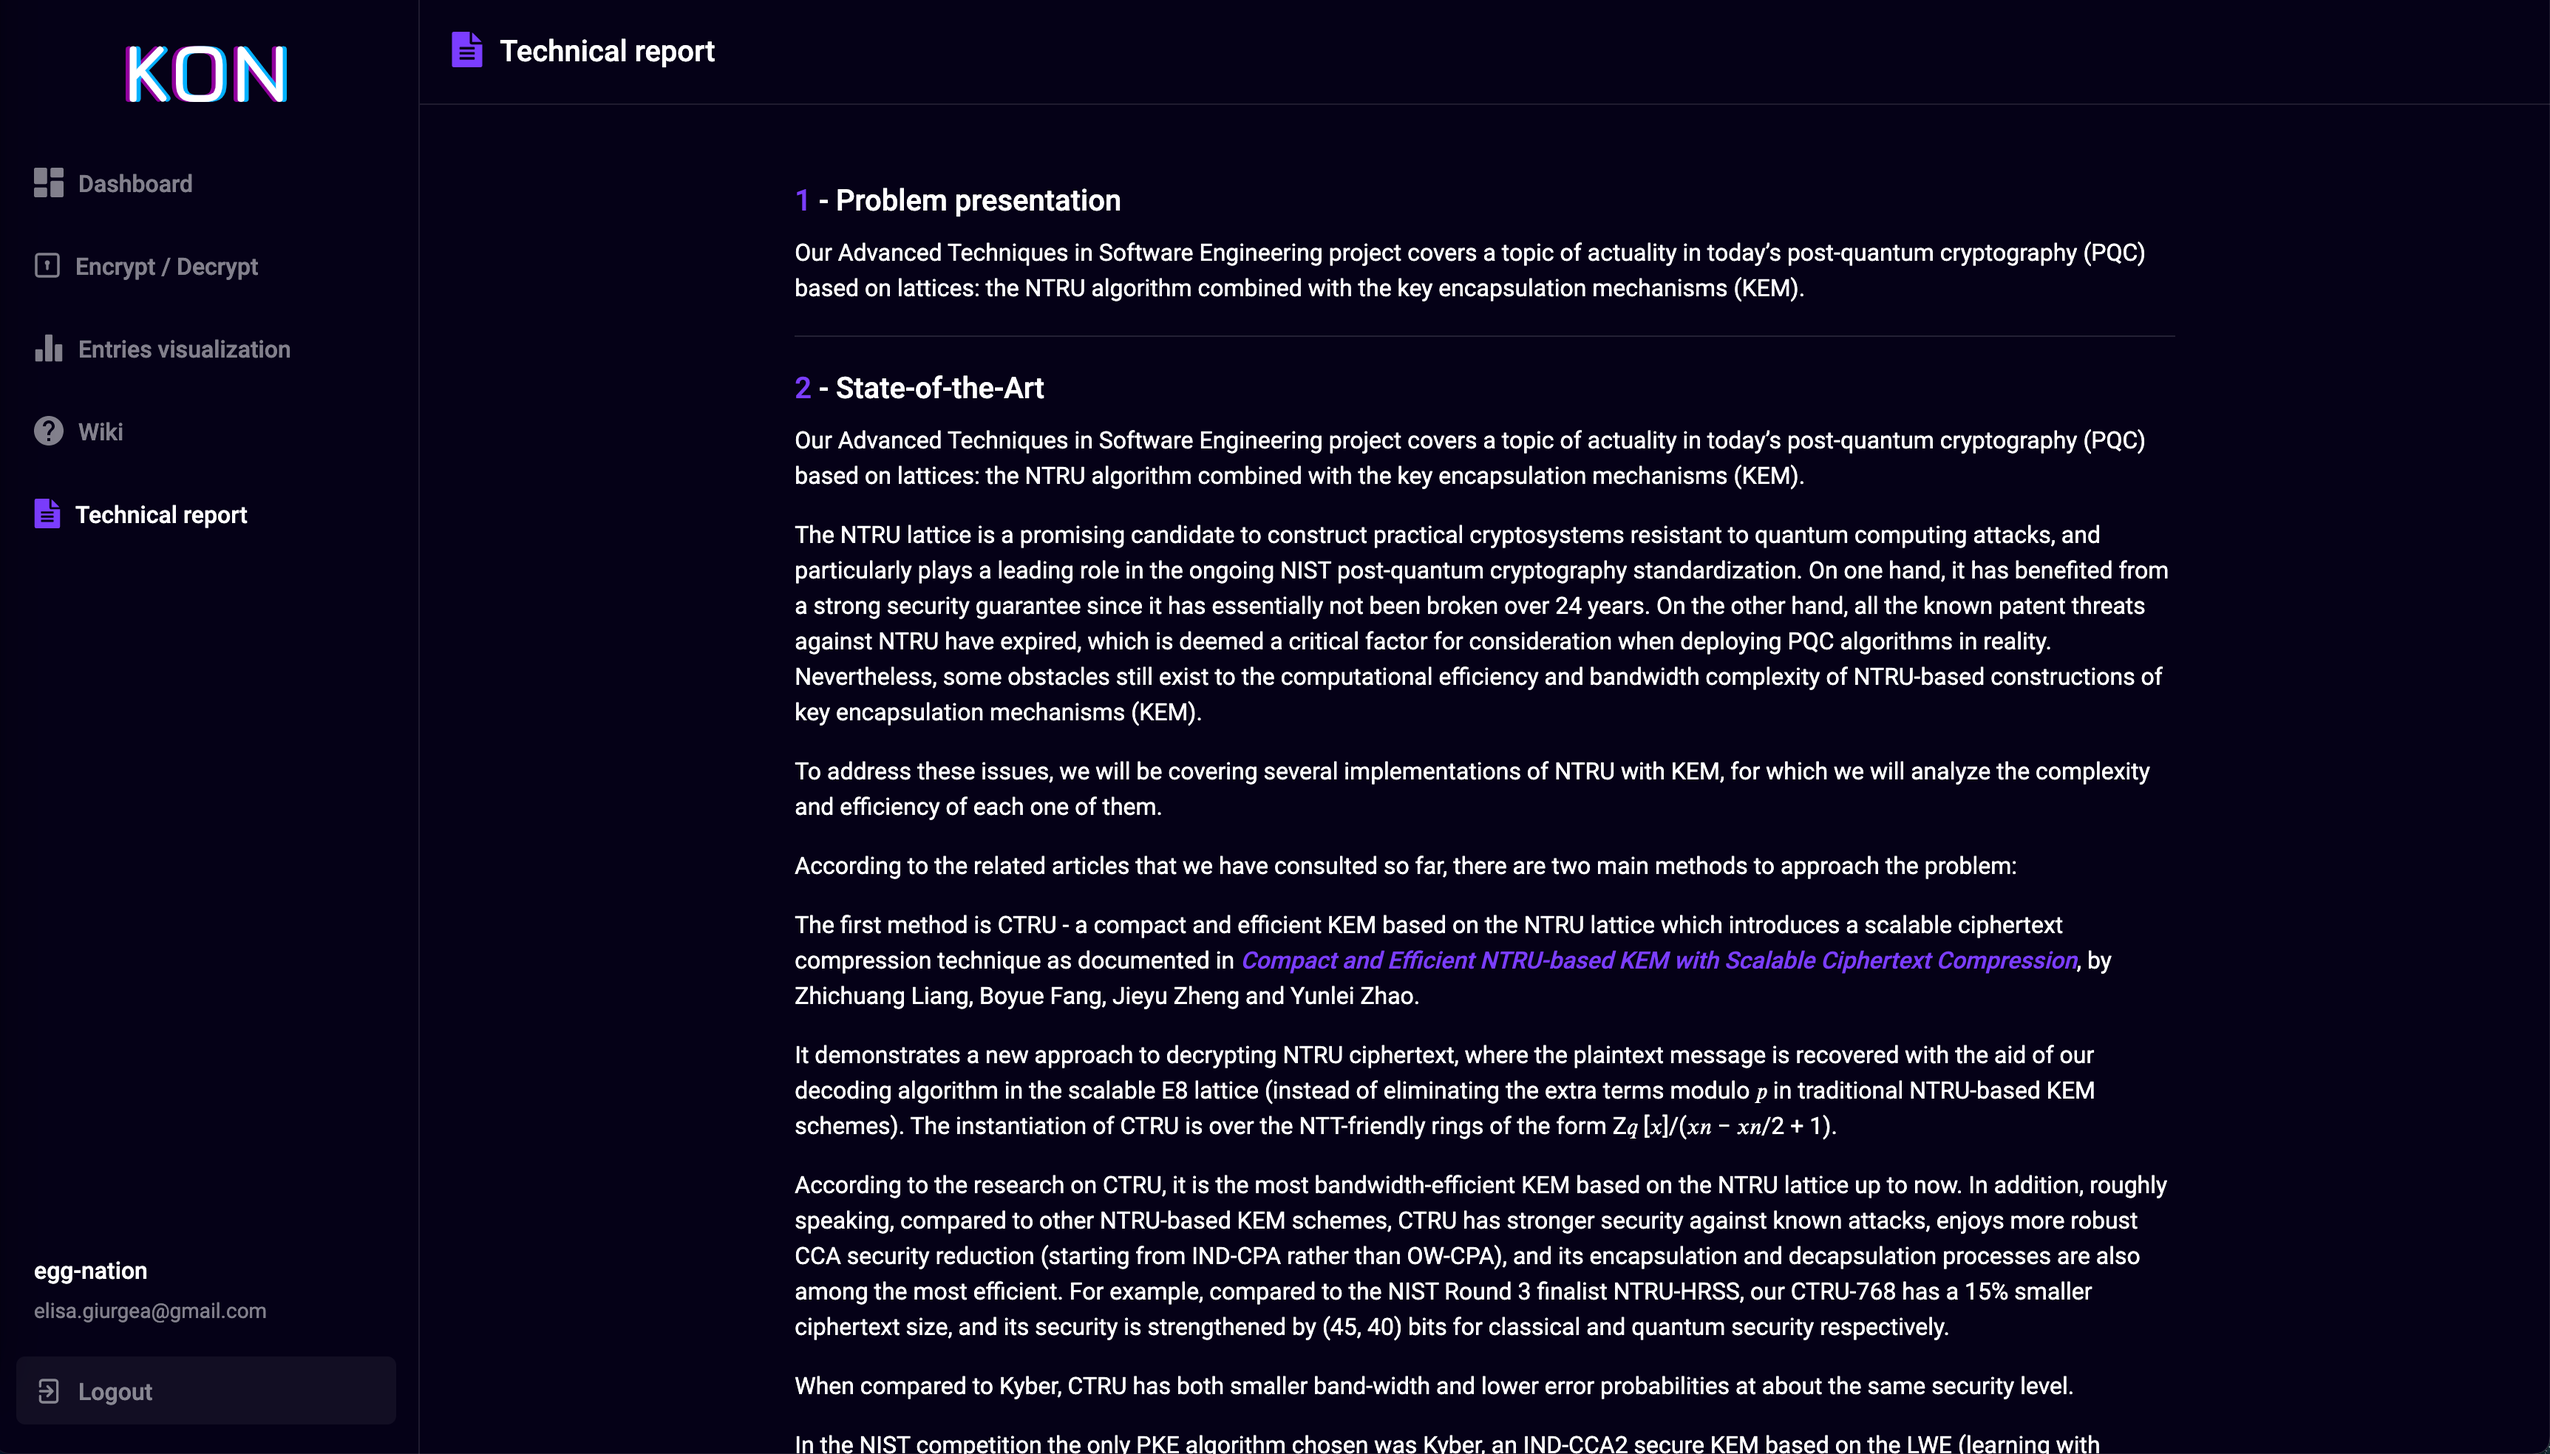
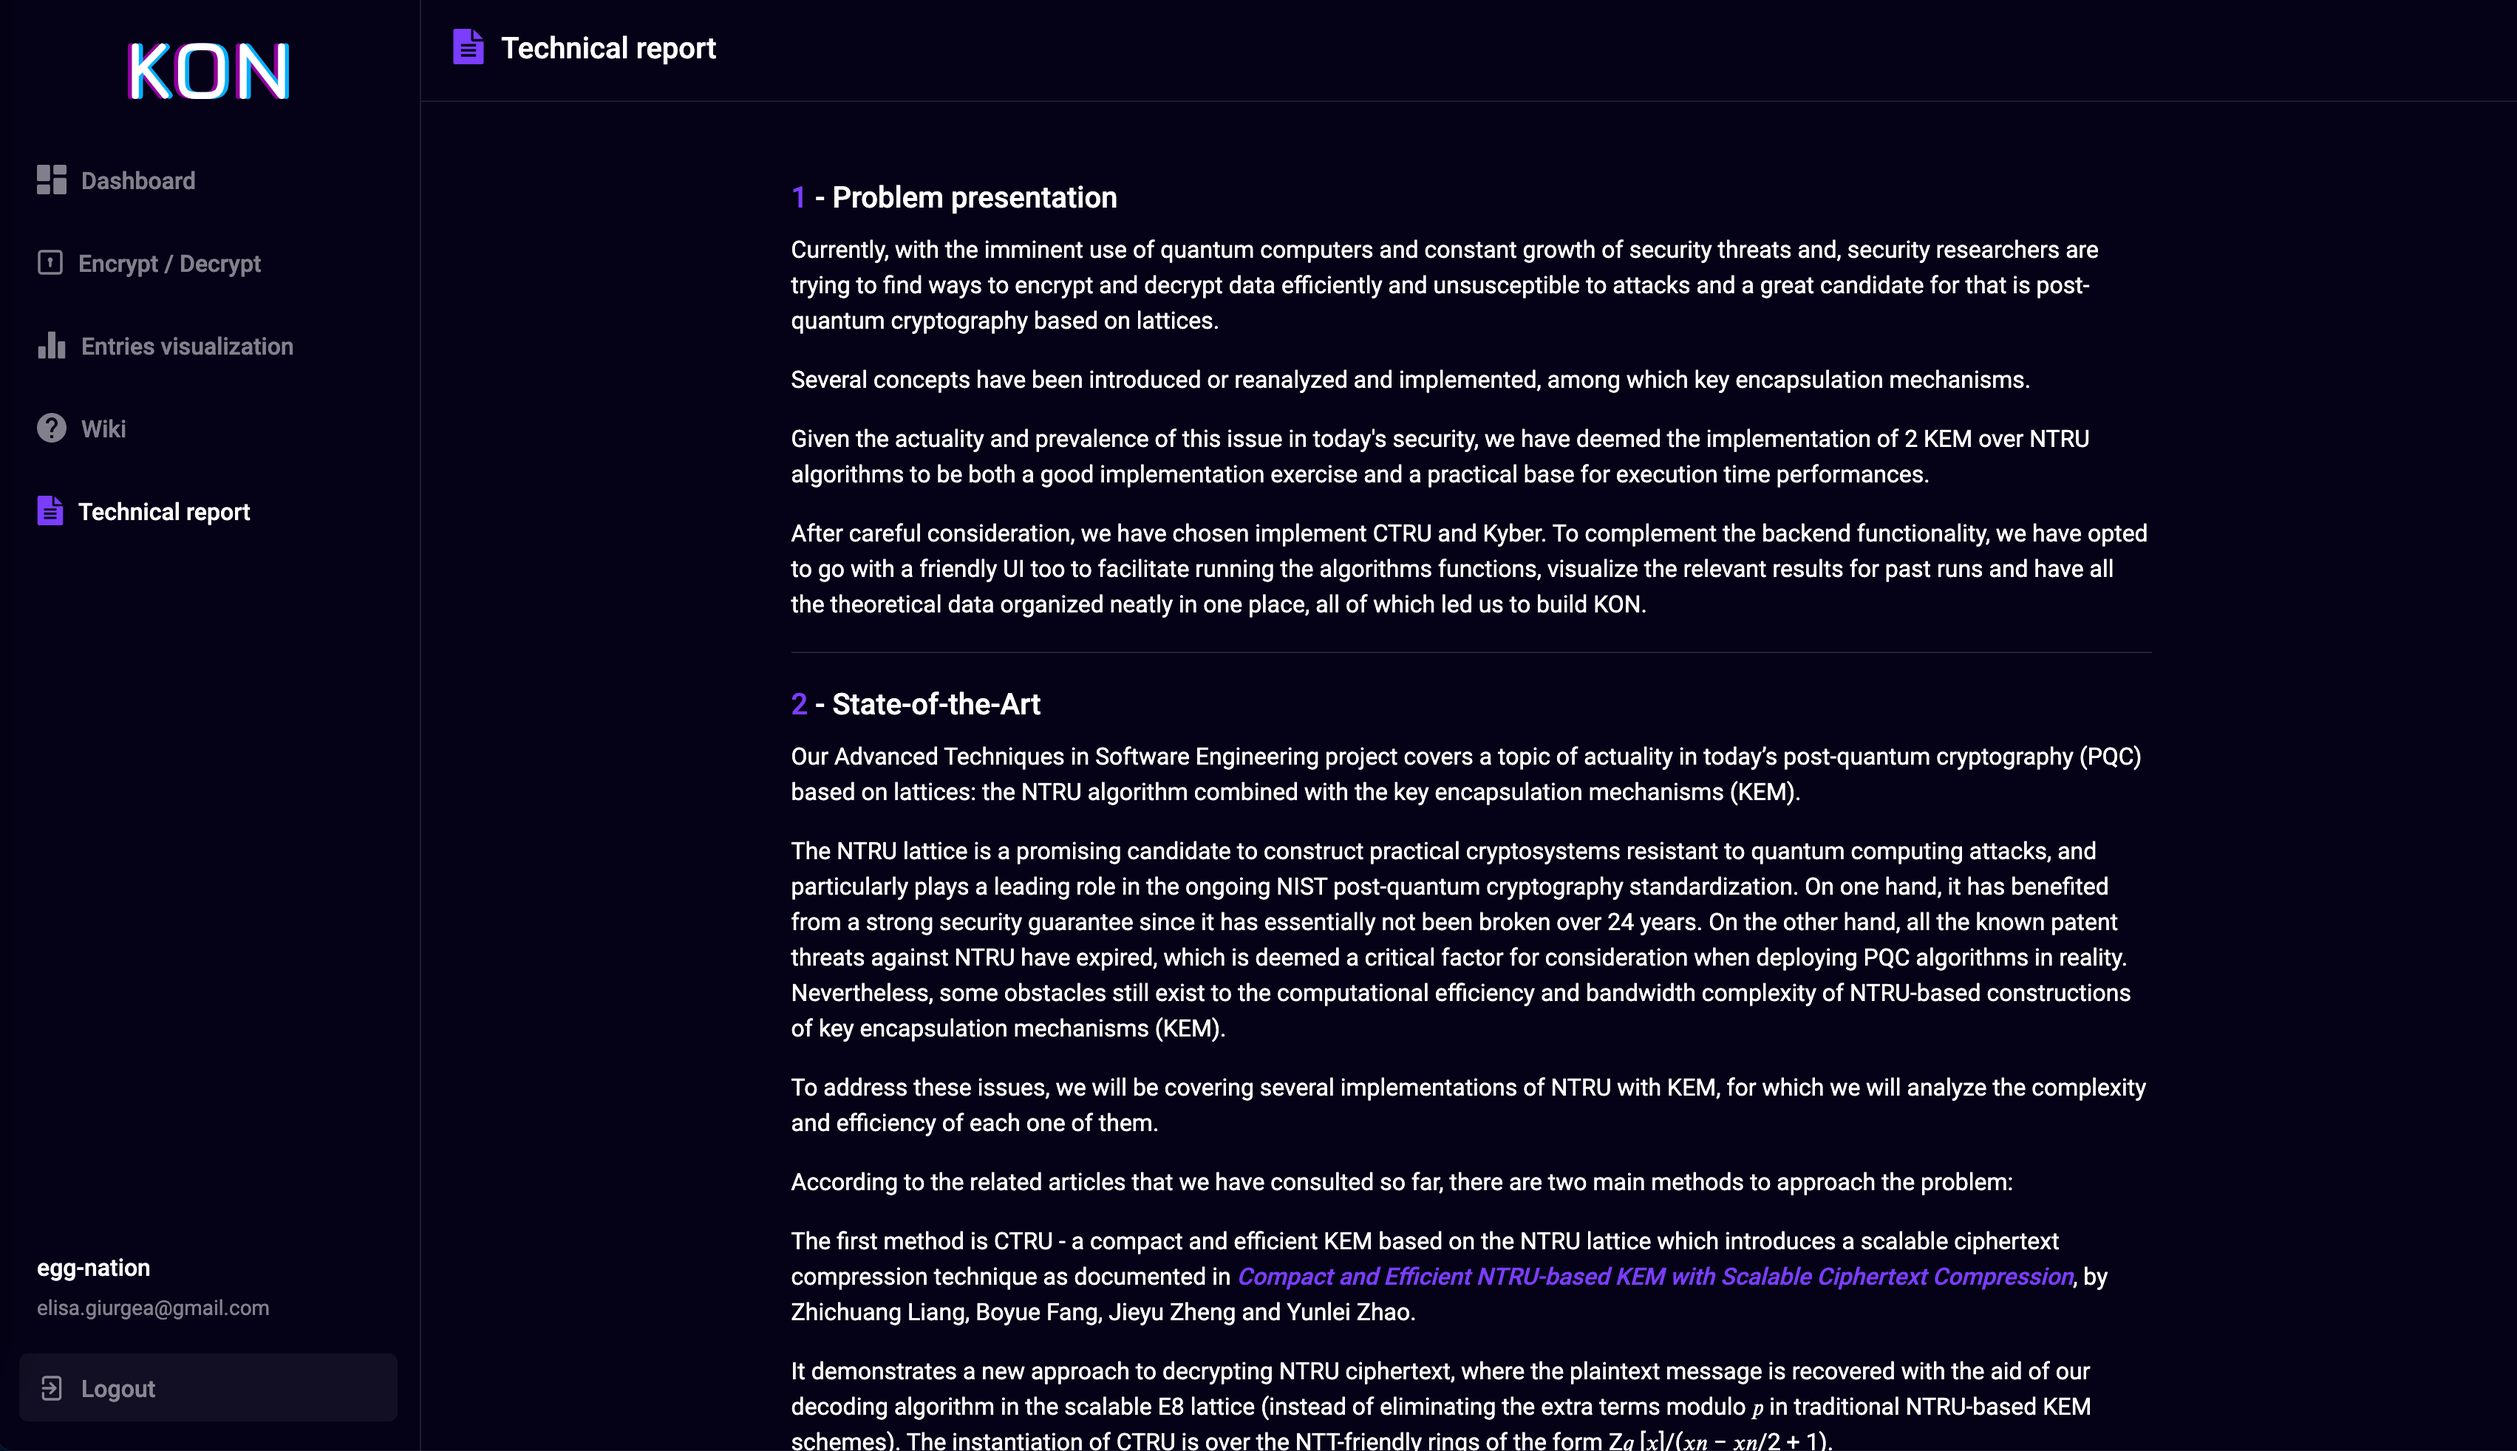
finished technical report

diff --git a/source/webapp/src/pages/technical-report/TechnicalReport.tsx b/source/webapp/src/pages/technical-report/TechnicalReport.tsx
@@ -36,13 +36,23 @@ const TechnicalReport = () => {
                                             <div className={"mb-3 padding-top-smaller"}>
                                                 <h5><span
                                                     className={"skin-color"}>1</span> - Problem presentation</h5>
-                                                <p>Our Advanced Techniques in Software Engineering project covers a
-                                                    topic of
-                                                    actuality in today’s post-quantum cryptography (PQC) based on
-                                                    lattices:
-                                                    the
-                                                    NTRU
-                                                    algorithm combined with the key encapsulation mechanisms (KEM).</p>
+                                                <p>Currently, with the imminent use of quantum computers and constant
+                                                    growth of security threats and, security researchers are trying to
+                                                    find ways to encrypt and decrypt data efficiently and insusceptible
+                                                    to attacks and a great candidate for that is post-quantum
+                                                    cryptography based on lattices.</p>
+                                                <p>Several concepts have been introduced or reanalyzed and implemented,
+                                                    among which key encapsulation mechanisms.</p>
+                                                <p>Given the actuality and prevalence of this issue in today's security,
+                                                    we have deemed the implementation of 2 KEM over NTRU algorithms to
+                                                    be both a good implementation exercise and a practical base for
+                                                    execution time performances.</p>
+                                                <p>After careful consideration, we have chosen implement CTRU and Kyber.
+                                                    To complement the backend functionality, we have opted to go with a
+                                                    friendly UI too to facilitate running the algorithms functions,
+                                                    visualize the relevant results for past runs and have all the
+                                                    theoretical data organized neatly in one place, all of which led us
+                                                    to build KON.</p>
                                                 <hr/>
                                             </div>
                                             <div className={"mb-3"}>
@@ -55,7 +65,7 @@ const TechnicalReport = () => {
                                                     NTRU
                                                     algorithm combined with the key encapsulation mechanisms (KEM).</p>
                                                 <p>The NTRU lattice is a promising candidate to construct practical
-                                                    cryptosystems resistant to quantum computing attacks, and
+                                                    crypto-systems resistant to quantum computing attacks, and
                                                     particularly
                                                     plays a leading role in the ongoing NIST post-quantum cryptography
                                                     standardization. On one hand, it has benefited from a strong
@@ -316,7 +326,7 @@ const TechnicalReport = () => {
                                                     time the encapsulation function is called, therefore sacrificing
                                                     some
                                                     performance to greatly improve the memory cost. On the other hand,
-                                                    CTRU uses adjustable cyphertext compression, which helps reduce the
+                                                    CTRU uses adjustable ciphertext compression, which helps reduce the
                                                     length of the output.
                                                 </p>
                                                 <hr/>
@@ -324,14 +334,75 @@ const TechnicalReport = () => {
                                             <div className={"mb-3"}>
                                                 <h5><span className={"skin-color"}>5</span> - Comparison with other
                                                     solutions</h5>
+                                                <p>Given that KEM over lattices are relatively newly proposed, there
+                                                    aren't any other platforms which compare the 2 implementations' (CTRU
+                                                    and Kyber)
+                                                    performance wise available, at least for the general public, but
+                                                    security researchers are working constantly to find new
+                                                    implementations and possible vulnerabilities for the already
+                                                    implemented ones.</p>
                                                 <hr/>
                                             </div>
                                             <div className={"mb-3"}>
                                                 <h5><span className={"skin-color"}>6</span> - Future work</h5>
+                                                <p>As future plans for expanding the KON platform, we have the following
+                                                    points in mind:</p>
+                                                <ul>
+                                                    <li>
+                                                        Adding other data visualization views, such as charts, to better
+                                                        underline
+                                                        the performance differences better and to get a clearer view on
+                                                        how th algorithm functions perform execution time wise given
+                                                        increasing input lengths.
+                                                    </li>
+                                                    <li>
+                                                        Adding other KEM over NTRU algorithms' implementations to get an
+                                                        even broader view on which is the faster given certain input
+                                                        values which differ in length.<br/>
+                                                        A good candidate for the new KEM
+                                                        over NTRU algorithm to implement would be BAT – an IND-CCA
+                                                        secure key encapsulation mechanism (KEM) that is based on NTRU
+                                                        but follows an encryption/decryption paradigm distinct from
+                                                        classical NTRU KEMs and is covered extensively in <a
+                                                        href={"https://eprint.iacr.org/2022/031.pdf"} target={"_blank"}
+                                                        rel={"noreferrer"}><em>BAT: Small and
+                                                        Fast KEM over NTRU Lattices
+                                                    </em></a>, by Pierre-Alain Fouque, Paul
+                                                        Kirchner, Thomas Pornin and Yang Yu.<br/>
+                                                        It demonstrates a new approach of decrypting NTRU ciphertext
+                                                        since its introduction 25 years ago. Instead of introducing an
+                                                        artificial masking parameter p to decrypt the ciphertext, the
+                                                        algorithm use 2 linear equations in 2 unknowns to recover the
+                                                        message and the error. The encryption process is therefore close
+                                                        to the GGH scheme.
+                                                    </li>
+                                                </ul>
                                                 <hr/>
                                             </div>
                                             <div className={"mb-3"}>
                                                 <h5><span className={"skin-color"}>7</span> - Conclusions</h5>
+                                                <p>
+                                                    At this particular moment, Kyber performs better time complexity
+                                                    wise on longer input and is safer to use (no attacks on it have been
+                                                    successful so far) and it shows more maturity in its implementation.
+                                                    Given that is in the process of being
+                                                    standardized by NIST it will also be largely used for several
+                                                    practical applications.
+                                                </p>
+                                                <p>
+                                                    On the other hand, CTRU is also showing promising experimental
+                                                    results given the output length (asymmetrical algorithms generally
+                                                    have significantly bigger output length compared to the input data),
+                                                    but, for now, it is not mature enough to be eligible for wide
+                                                    practical use.
+                                                </p>
+                                                <p>Generally speaking, it is important to compare solutions performance
+                                                    wise and to have tools available which do just that as they
+                                                    significantly decrease the amount of work and time needed to test
+                                                    how they perform for different types on input. Also, data
+                                                    visualization methods are a helpful tool in giving a clear image of
+                                                    which is better in which case and should be used to get reliable and
+                                                    easy to understand data statistics.</p>
                                                 <hr/>
                                             </div>
                                             <div className={"mb-3"}>
